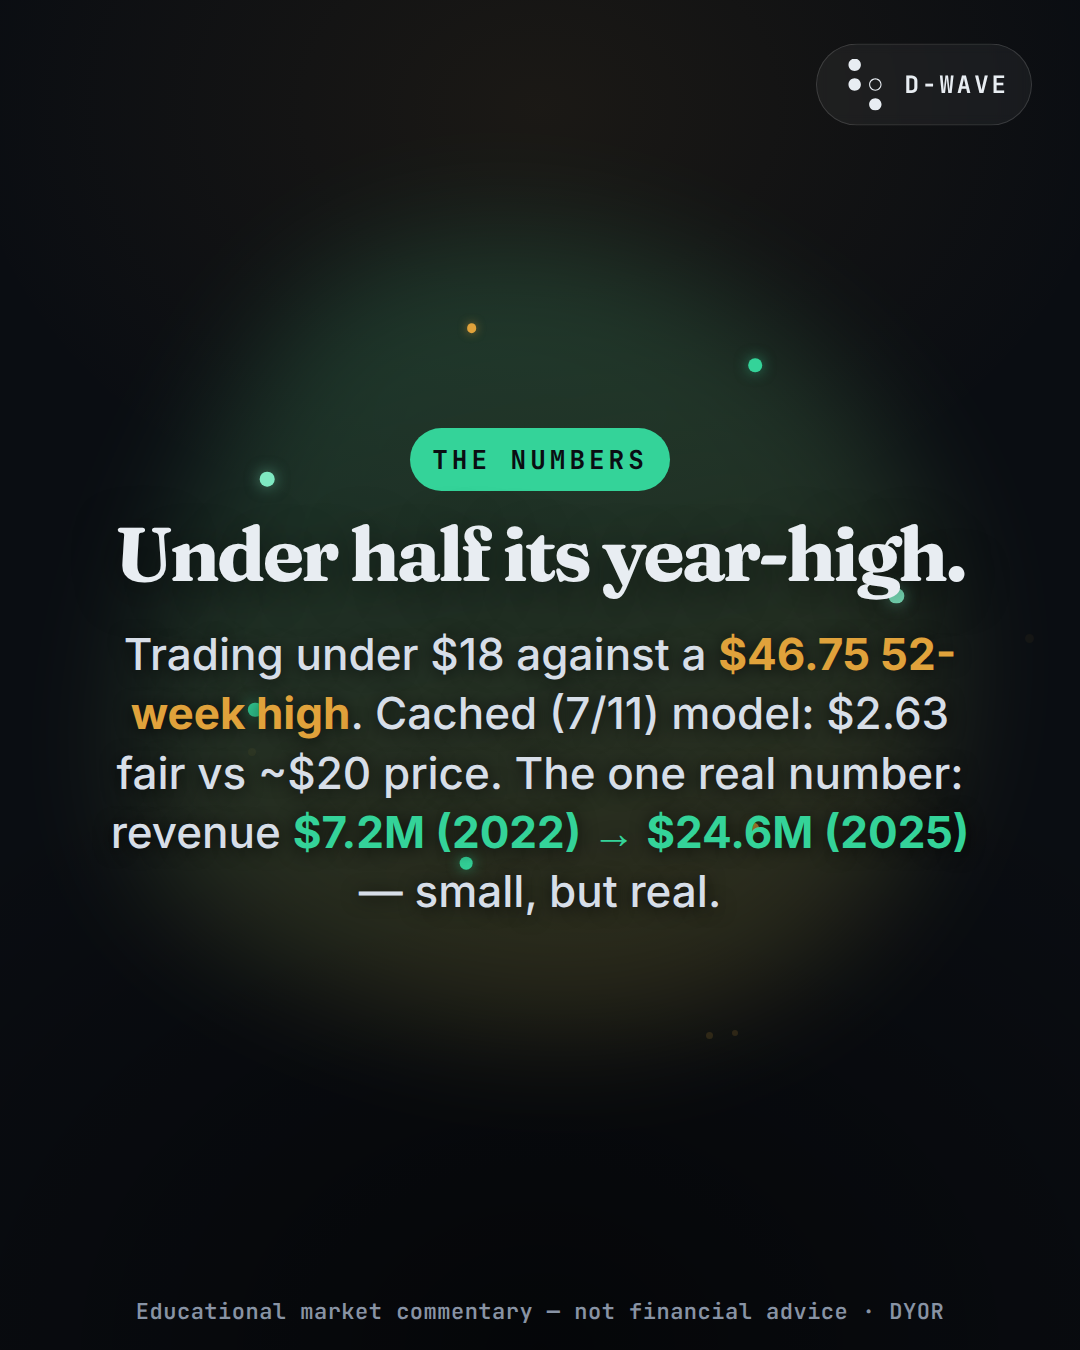
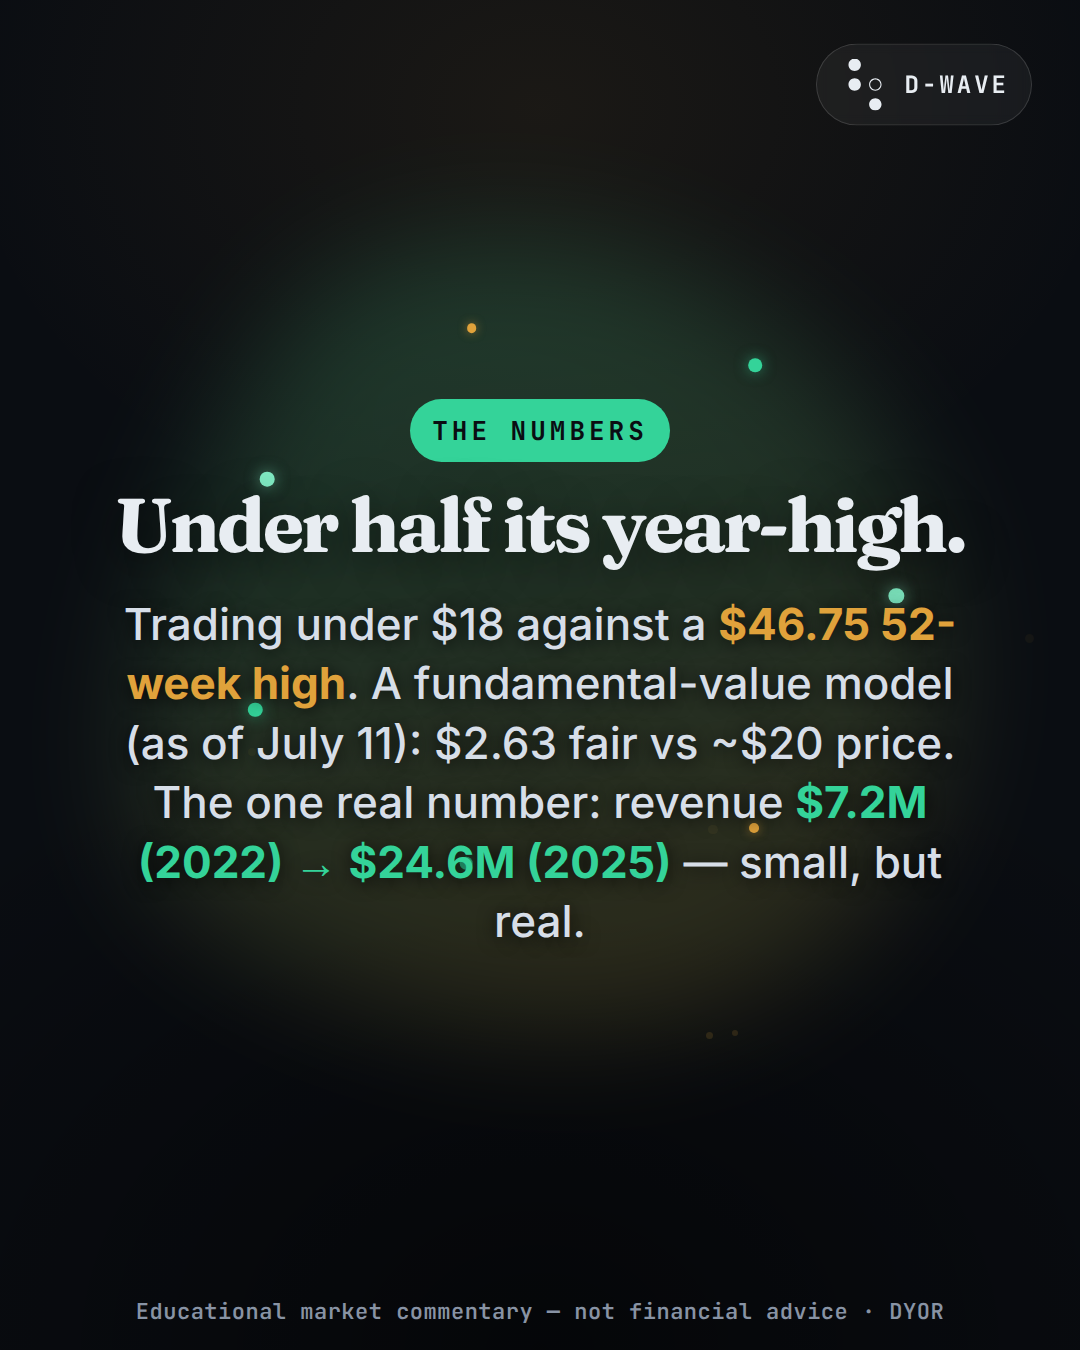
style(carousel): strip sourcing meta-lines from the posted images
Slides are for Instagram — provenance notes (cross-checked-vs-IBKR,
segment-framing, cached-bundle mentions) read as internal QA on a public
post. Footnotes removed from all 21 slides ('' explicitly, since Remotion
merges missing keys from composition defaultProps — a deleted footnote
leaked the halal fixture's text), verdict pill reduced to OVERVALUED,
'cached (7/11)' phrasing rewritten as a natural 'as of July 11', and the
fundsheet keeps a single quiet 'Figures as of July 11, 2026' line. Company
footnote is now optional in the schema. Full provenance stays in each
carousel's brief.md and the repo history — just not on the image.

Claude-Session: https://claude.ai/code/session_01PkwFxy4wTXcHwd4n28G555

Changed region(s): [[0.0917, 0.28, 0.9167, 0.7156]]

diff --git a/remotion/src/compositions/KurzSlide.tsx b/remotion/src/compositions/KurzSlide.tsx
@@ -239,7 +239,9 @@ const CompanyScene: React.FC<KurzCompanyProps> = (p) => (
           <MetricPill key={pill.label} label={pill.label} value={pill.value} delay={70 + i * 10} />
         ))}
       </div>
-      <div style={{fontFamily: FONT.mono, fontSize: 19, color: C.muted, marginTop: 10, textAlign: 'center'}}>{p.footnote}</div>
+      {p.footnote ? (
+        <div style={{fontFamily: FONT.mono, fontSize: 19, color: C.muted, marginTop: 10, textAlign: 'center'}}>{p.footnote}</div>
+      ) : null}
     </div>
   </AbsoluteFill>
 );

diff --git a/remotion/src/slides/kurzProps.ts b/remotion/src/slides/kurzProps.ts
@@ -39,7 +39,7 @@ export const kurzCompanySchema = z.object({
   perfLabel: z.string(),
   motif: z.enum(['beams', 'prism', 'stack']),
   pills: z.array(z.object({label: z.string(), value: z.string()})).length(3),
-  footnote: z.string(),
+  footnote: z.string().optional(),
   durationInFrames: z.number(),
 });
 
